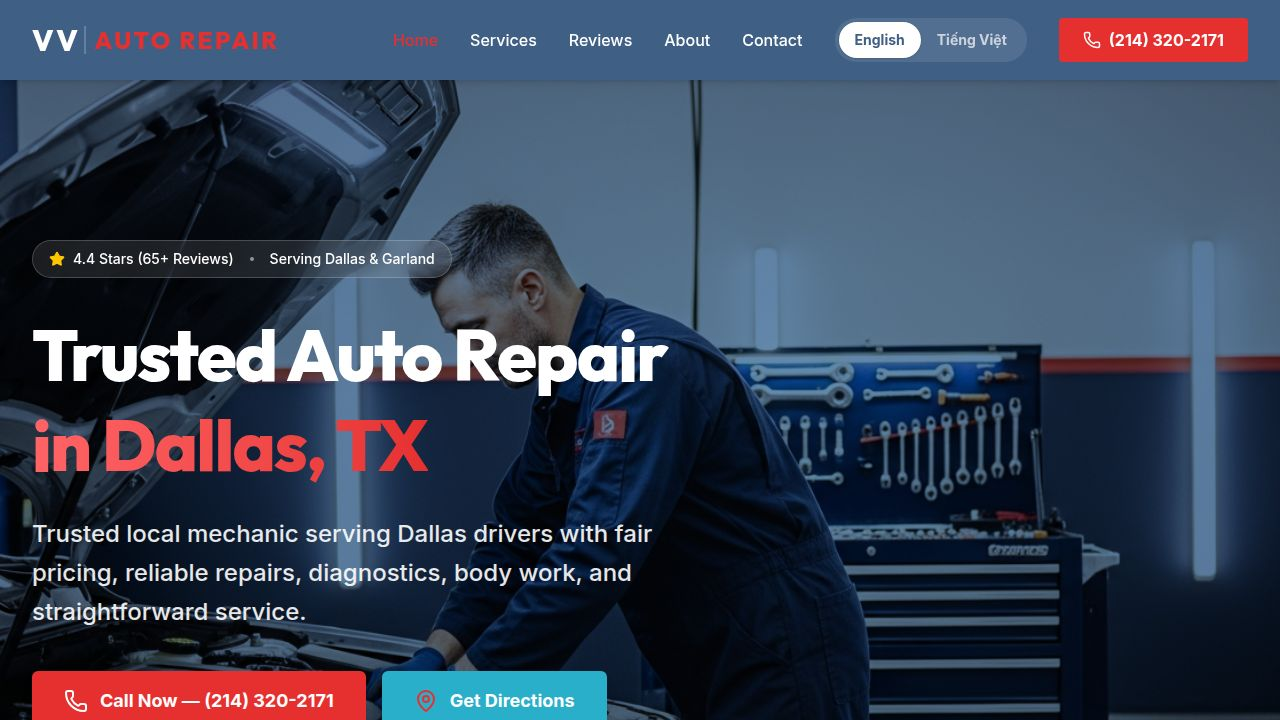
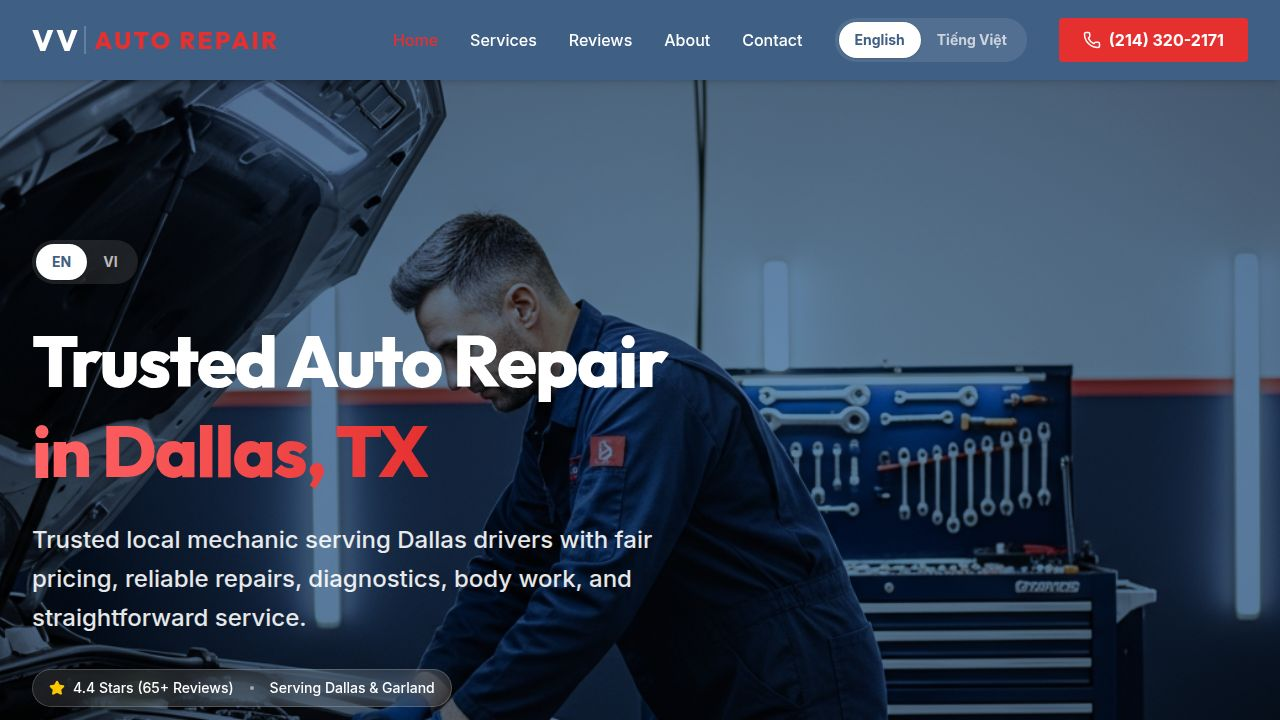
Hero language toggle: use full labels (English / Tiếng Việt)
Replaced abbreviated "EN" / "VI" labels with the full words to match the
larger toggle style shown in the nav bar and mobile app header.

Changed region(s): [[0.0, 0.0917, 1.0, 1.0], [0.7812, 0.9778, 1.0, 1.0], [0.5938, 0.3361, 0.625, 0.3667]]

diff --git a/artifacts/vv-auto-website/src/pages/index.tsx b/artifacts/vv-auto-website/src/pages/index.tsx
@@ -127,7 +127,7 @@ export default function Homepage() {
                 }`}
                 data-testid="btn-hero-lang-en"
               >
-                EN
+                English
               </button>
               <button
                 onClick={() => setLang("vi")}
@@ -136,7 +136,7 @@ export default function Homepage() {
                 }`}
                 data-testid="btn-hero-lang-vi"
               >
-                VI
+                Tiếng Việt
               </button>
             </div>
 